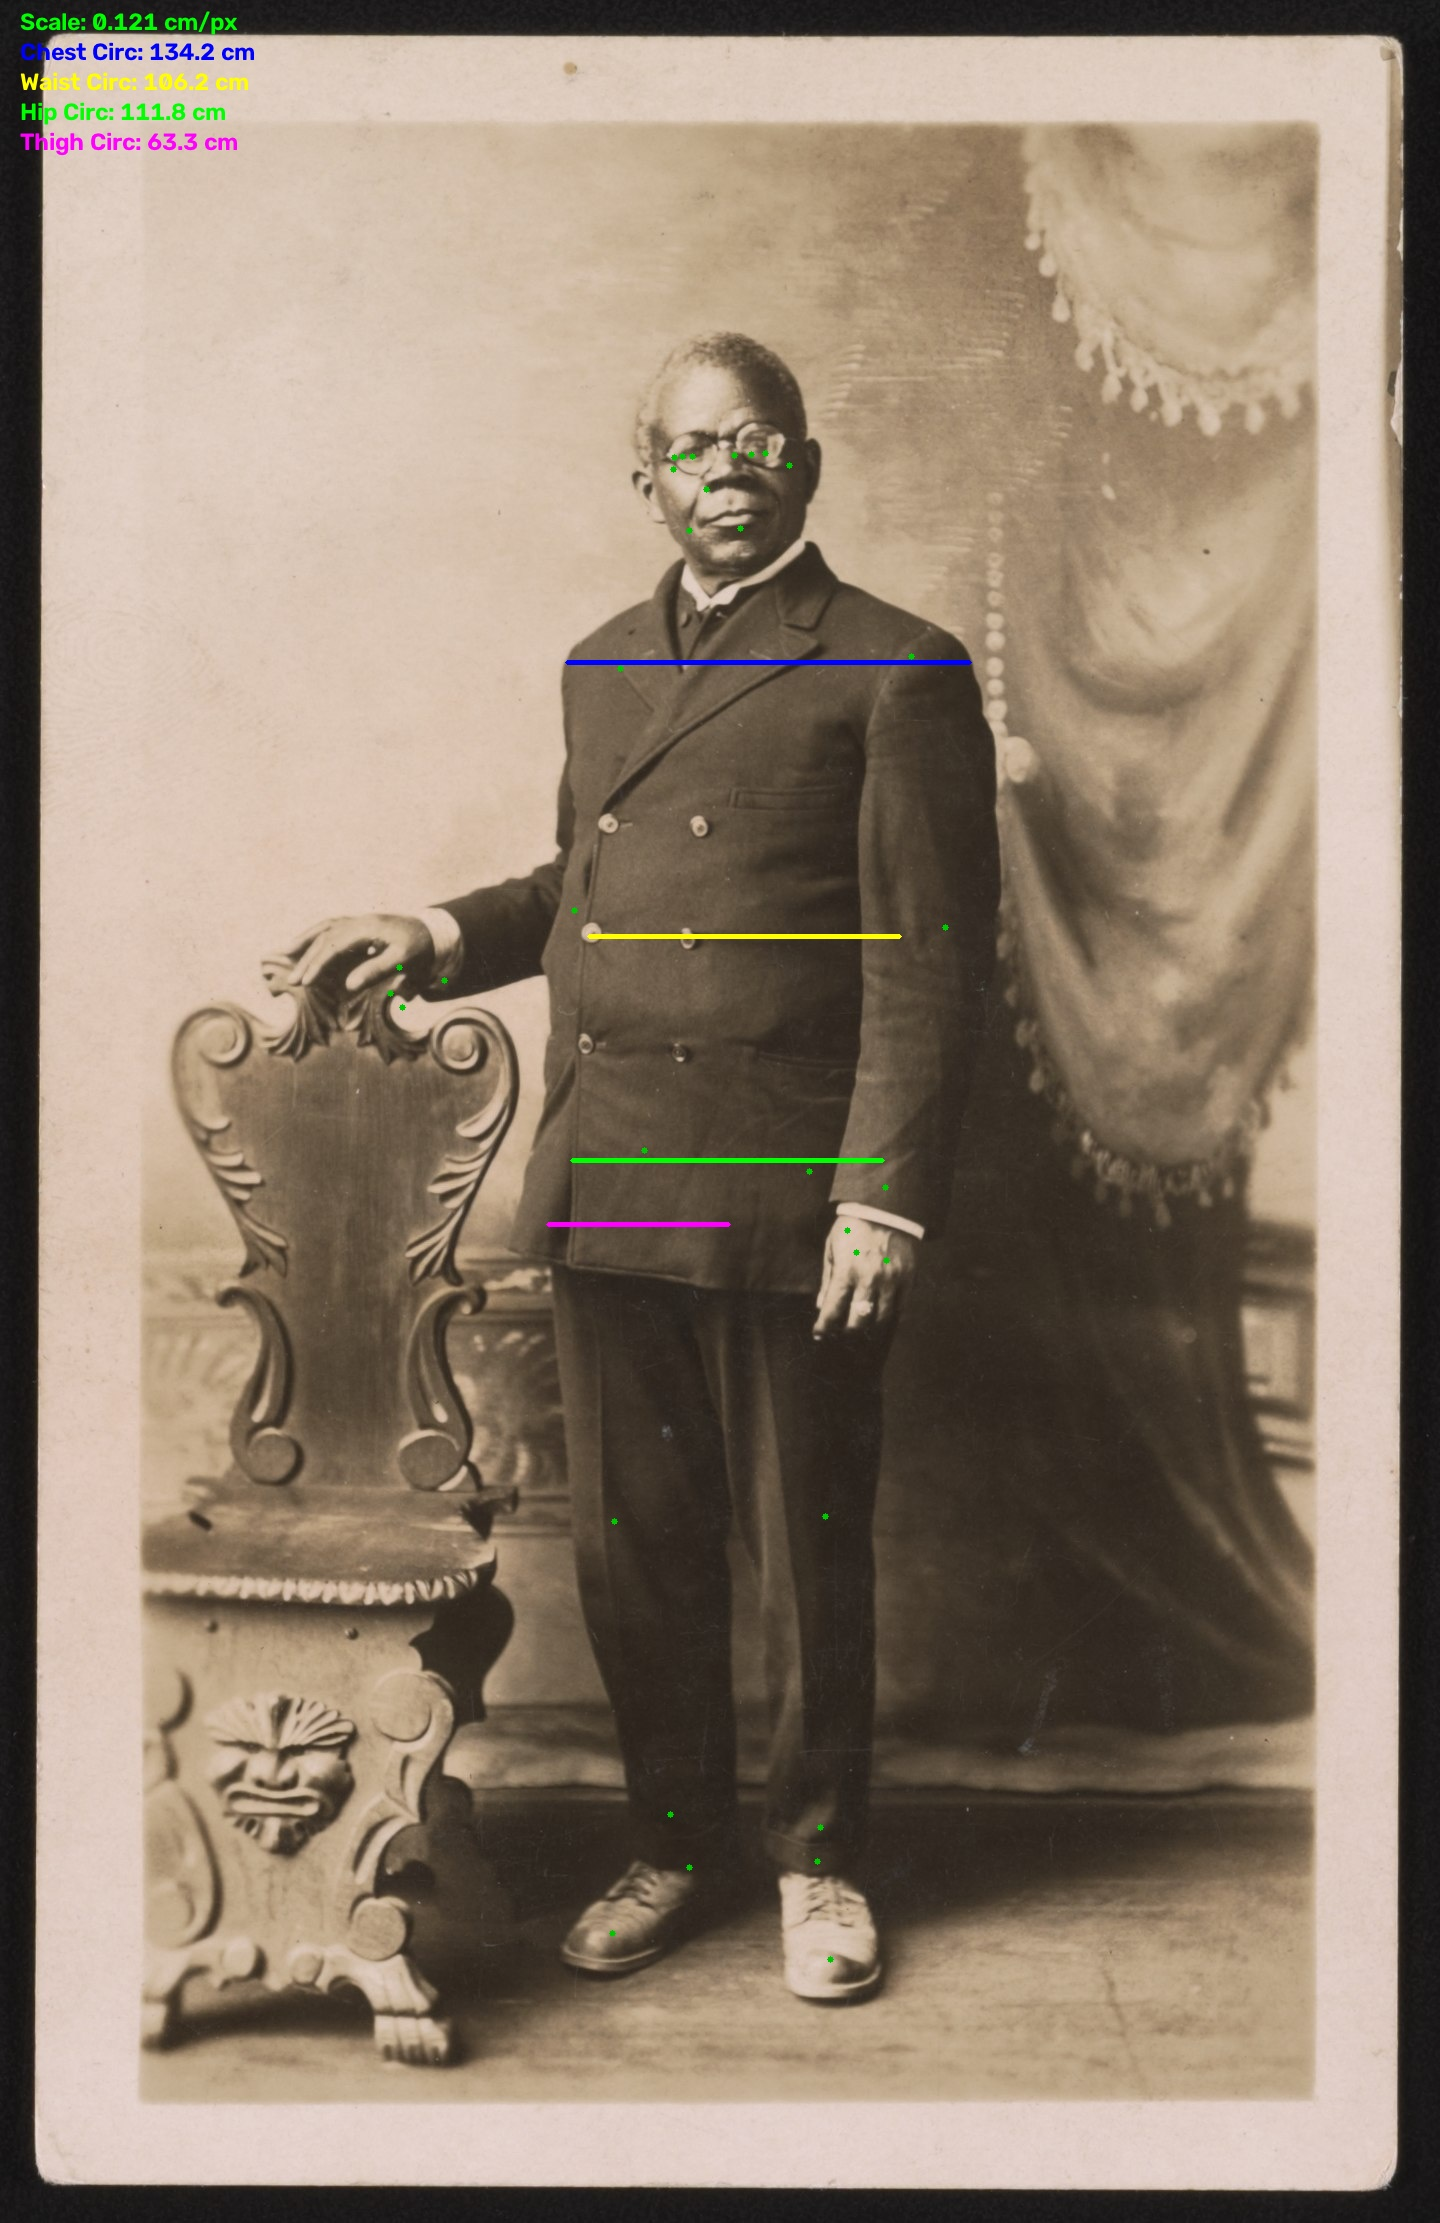
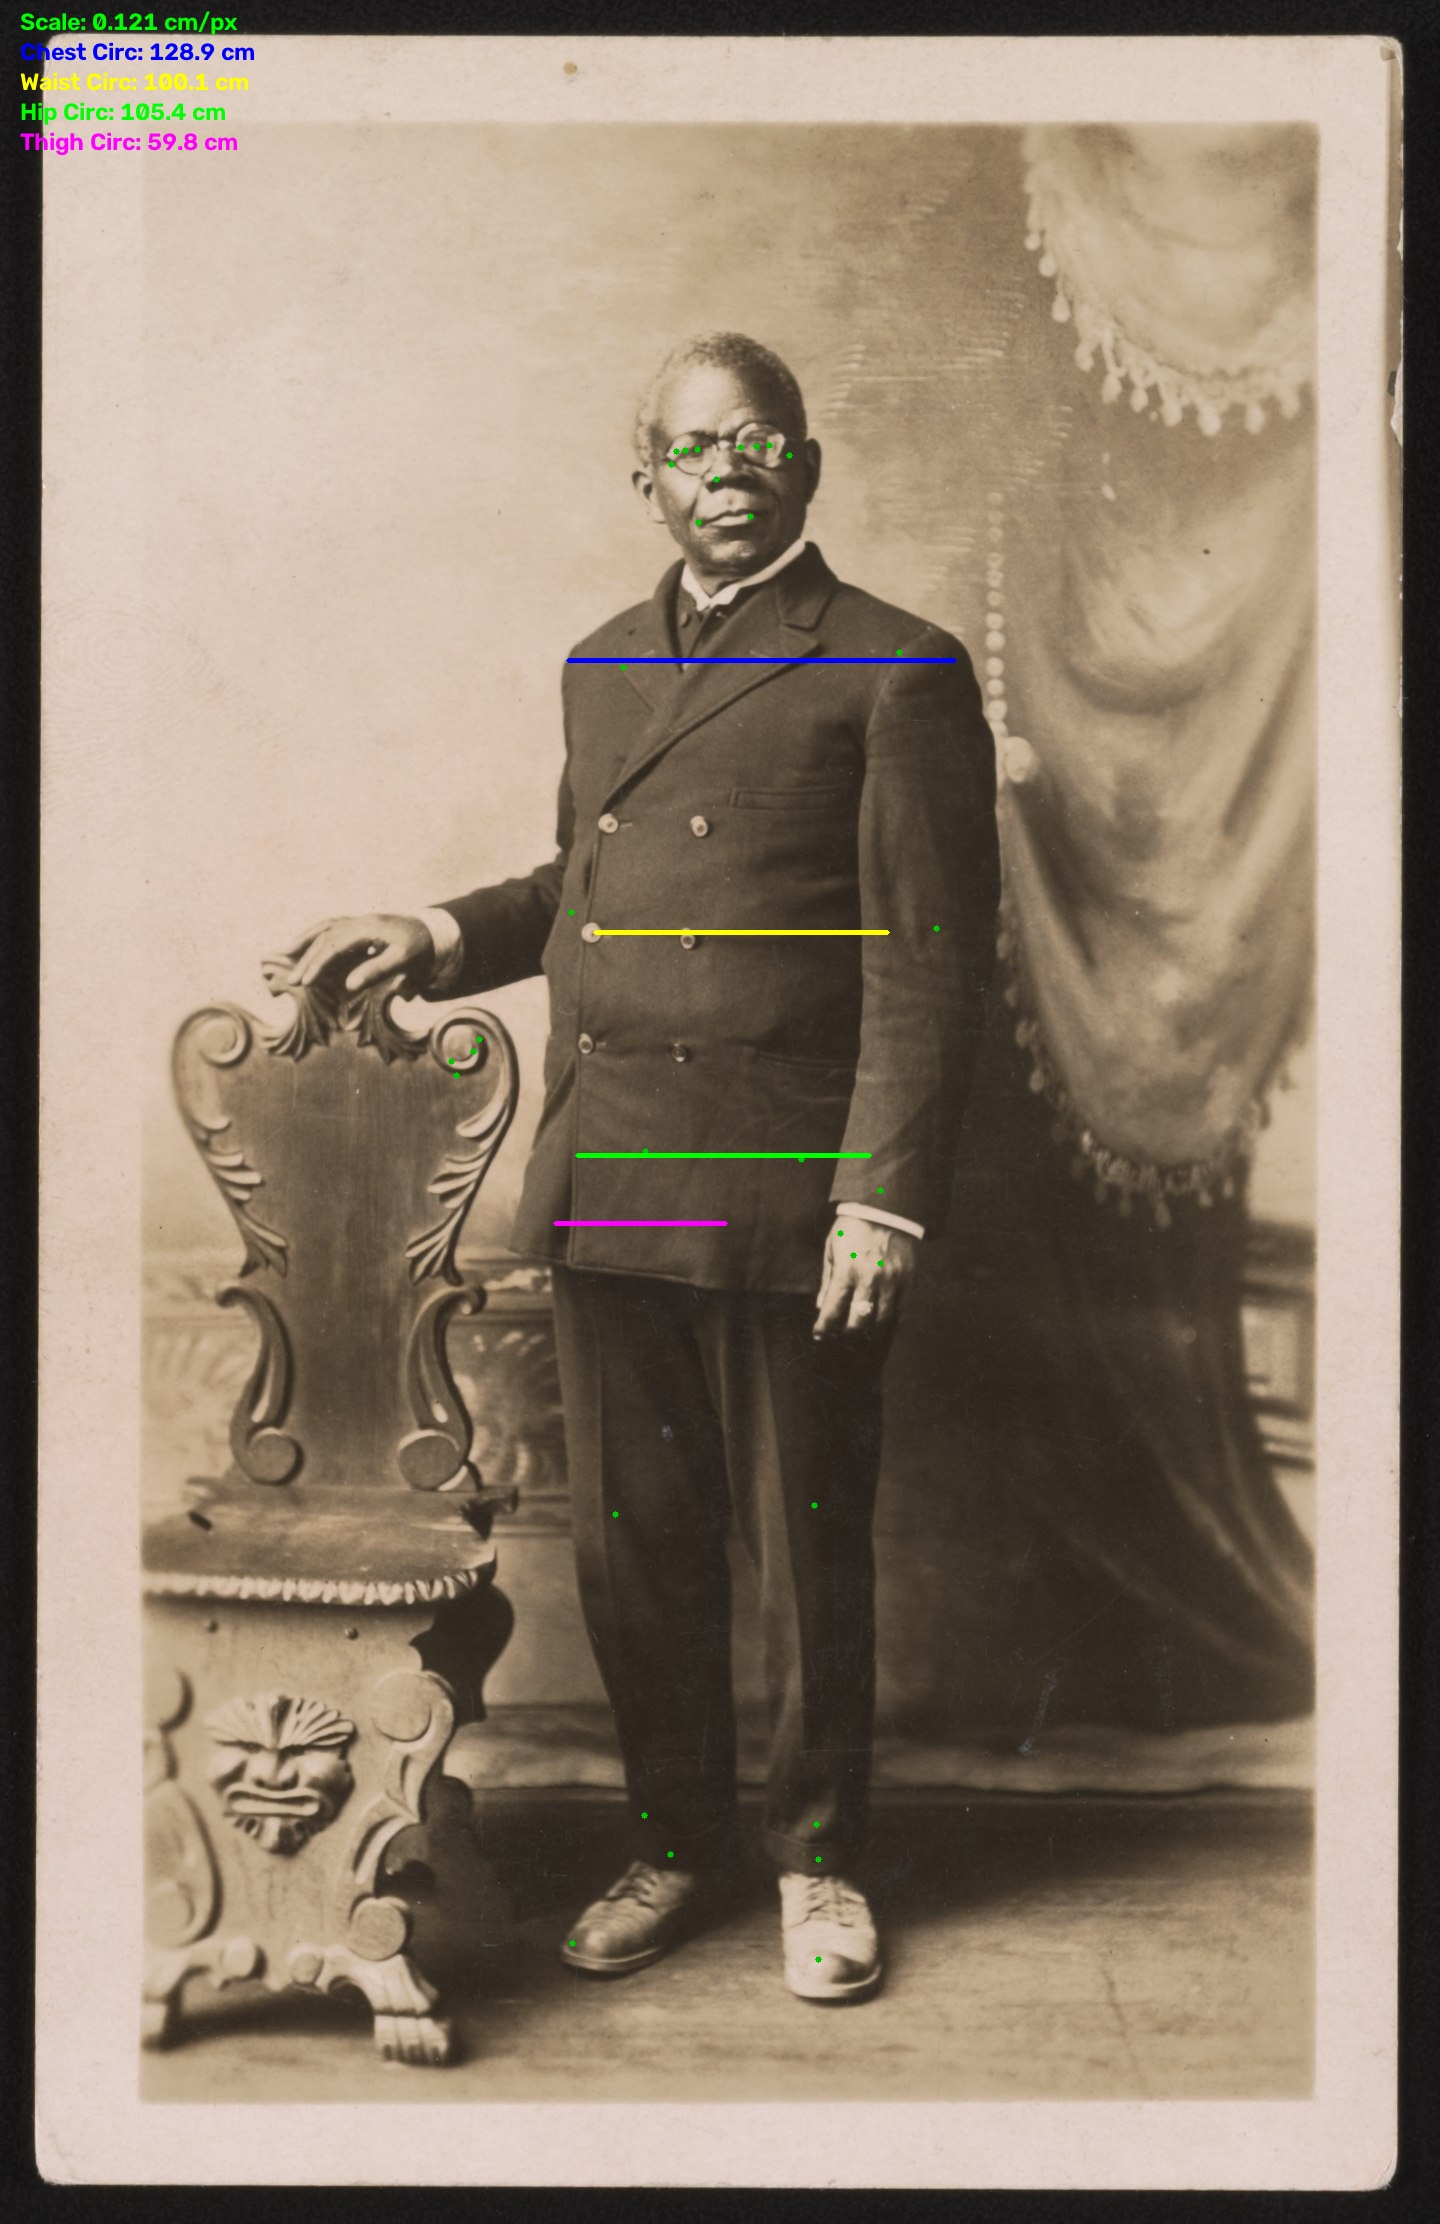
df

diff --git a/jinu829/exportnumberbymediapipe.py b/jinu829/exportnumberbymediapipe.py
@@ -106,6 +106,15 @@ def calculate_body_measurements(image_path, real_height_cm=175.0, export_path="m
         return
     h, w, _ = image.shape
 
+    # mediapipe는 너비/높이가 4의 배수가 아닌 이미지에서 세그멘테이션 마스크를
+    # 생성할 때 내부 stride 정렬이 깨져 네이티브 크래시
+    # (Check failed: 1 == ChannelSize())가 발생합니다. 오른쪽/아래쪽 가장자리를
+    # 복제해 4의 배수로 패딩하여 이를 피합니다.
+    pad_bottom, pad_right = (-h) % 4, (-w) % 4
+    if pad_bottom or pad_right:
+        image = cv2.copyMakeBorder(image, 0, pad_bottom, 0, pad_right, cv2.BORDER_REPLICATE)
+        h, w, _ = image.shape
+
     options = PoseLandmarkerOptions(
         base_options=BaseOptions(model_asset_path=MODEL_PATH),
         running_mode=VisionRunningMode.IMAGE,
@@ -113,7 +122,7 @@ def calculate_body_measurements(image_path, real_height_cm=175.0, export_path="m
     )
 
     with PoseLandmarker.create_from_options(options) as landmarker:
-        mp_image = mp.Image.create_from_file(image_path)
+        mp_image = mp.Image(image_format=mp.ImageFormat.SRGB, data=cv2.cvtColor(image, cv2.COLOR_BGR2RGB))
         result = landmarker.detect(mp_image)
 
     if not result.pose_landmarks:
